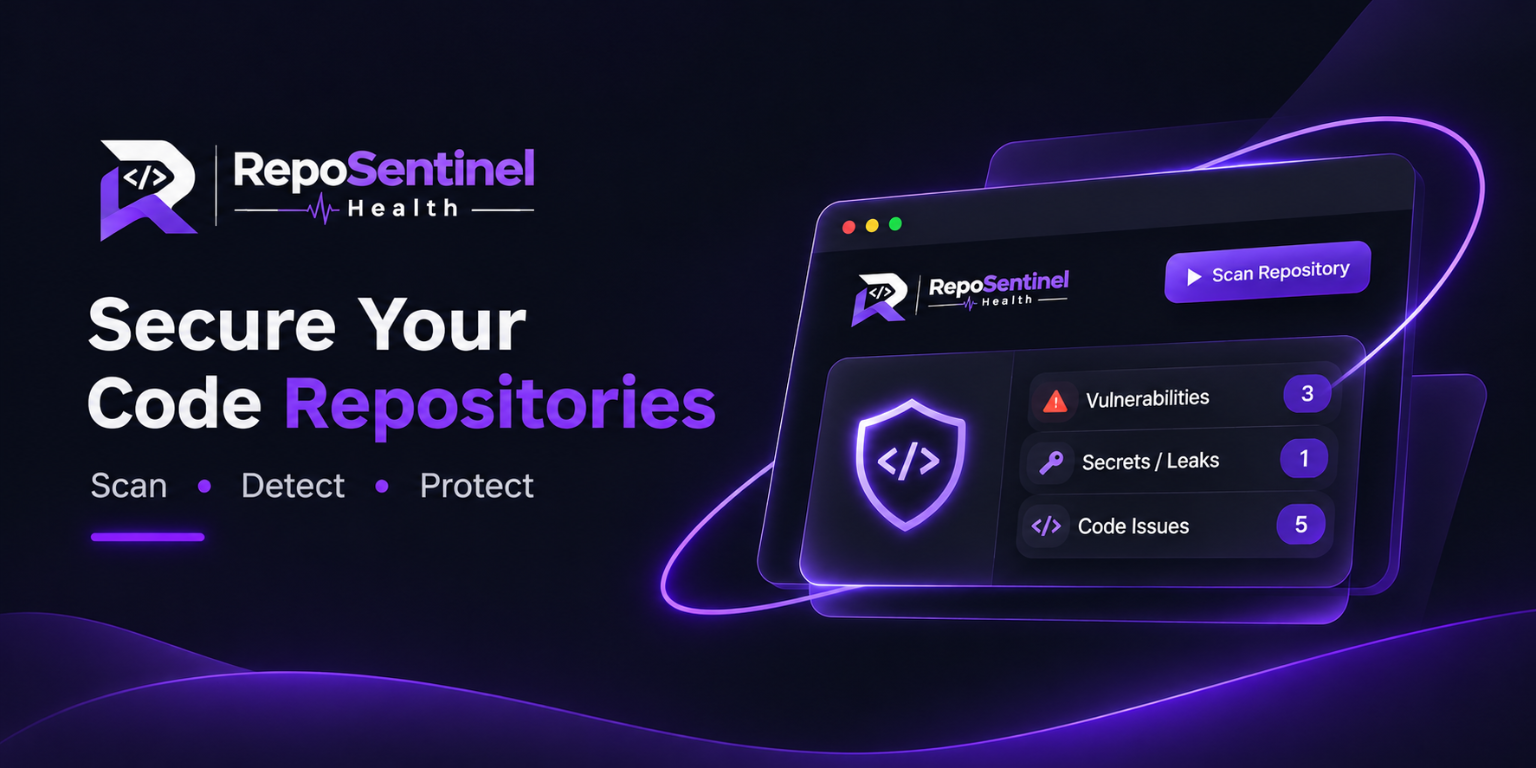
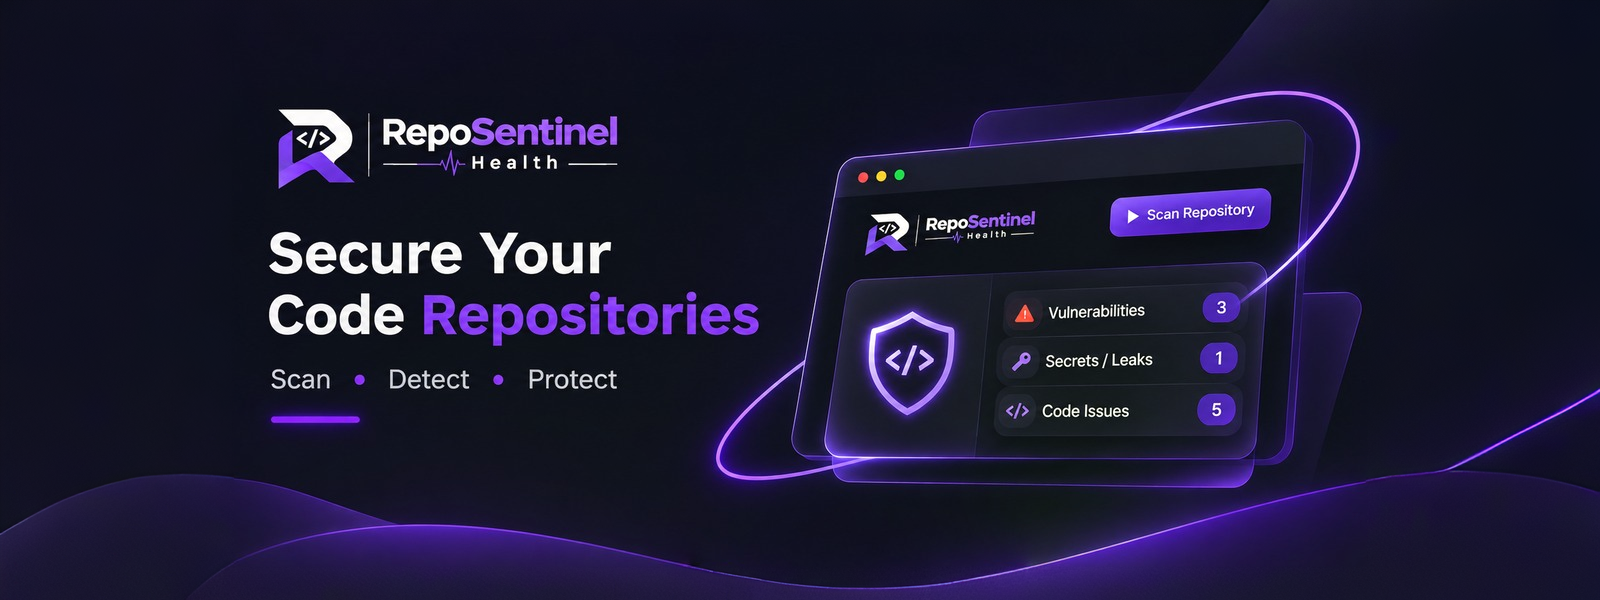
Refine hero artwork for light and dark themes

Changed region(s): [[0.0, 0.0, 1.0, 1.0], [0.0625, 0.18, 0.4062, 0.33], [0.0625, 0.6, 0.375, 0.72]]

diff --git a/frontend/src/App.jsx b/frontend/src/App.jsx
@@ -288,7 +288,6 @@ function App() {
       <main className="dashboard workspace-dashboard">
         {error && <div className="error-banner" role="alert"><div><strong>Backend connection issue</strong><p>{error}</p></div><button onClick={() => loadBackend()} className="retry-button" disabled={loading}>{loading ? "Connecting…" : "Retry connection"}</button></div>}
         {activeView === "overview" && <>
-          <section className="workspace-heading overview-heading"><div><p className="eyebrow">SECURITY OPERATIONS WORKSPACE</p><h1>Security Overview</h1><p>Monitor repository security, investigate findings, and prioritize remediation.</p></div><button className="primary-button" onClick={() => navigate("scan")}>New Repository Scan</button></section>
           <section className="hero-section" aria-label="RepoSentinel overview hero">
             <div className="hero-visual">
               <div className="hero-frame">
@@ -313,6 +312,7 @@ function App() {
               </ul>
             </div>
           </section>
+          <section className="workspace-heading overview-heading"><div><p className="eyebrow">SECURITY OPERATIONS WORKSPACE</p><h1>Security Overview</h1><p>Monitor repository security, investigate findings, and prioritize remediation.</p></div><button className="primary-button" onClick={() => navigate("scan")}>New Repository Scan</button></section>
           <section className="overview-meta"><div><span className="meta-label">CURRENT PROJECT</span><strong>{scanResult?.filename || "No repository selected"}</strong></div><div><span className="meta-label">LATEST SCAN</span><strong>{scanResult ? new Date(scanResult.created_at).toLocaleString() : "Awaiting first scan"}</strong></div><div><span className="meta-label">SCAN DURATION</span><strong>{scanResult ? `${scanResult.duration_ms ?? 0} ms` : "—"}</strong></div><div><span className="meta-label">SCAN ID</span><strong className="mono">{scanResult?.scan_id || "—"}</strong></div></section>
           <section className="section-heading"><div><h2>Risk overview</h2><p>Latest repository scan · findings are indicators for human review</p></div><span className="live-label">{scanResult ? "LATEST RESULT" : "NO SCAN YET"}</span></section>
           <section className="summary-grid overview-risk-grid"><article className="summary-card total"><span>Total findings</span><strong>{summary?.total_findings ?? "—"}</strong></article><article className="summary-card critical"><span>Critical</span><strong>{summary?.critical ?? "—"}</strong></article><article className="summary-card high"><span>High</span><strong>{summary?.high ?? "—"}</strong></article><article className="summary-card medium"><span>Medium</span><strong>{summary?.medium ?? "—"}</strong></article><article className="summary-card low"><span>Low</span><strong>{summary?.low ?? "—"}</strong></article><article className="summary-card info"><span>Files analyzed</span><strong>{summary?.files_analyzed ?? "—"}</strong></article></section>

diff --git a/frontend/src/App.css b/frontend/src/App.css
@@ -829,6 +829,27 @@ a {
   object-fit: contain;
 }
 
+.product-shell[data-theme="dark"] .hero-visual {
+  padding: 0;
+}
+
+.product-shell[data-theme="dark"] .hero-frame {
+  width: 100%;
+  max-width: none;
+  margin: 0;
+  border-radius: 0;
+  background: linear-gradient(90deg, rgba(6, 9, 17, 0.2) 0%, rgba(56, 38, 88, 0.16) 28%, rgba(92, 71, 150, 0.12) 52%, rgba(56, 38, 88, 0.16) 76%, rgba(6, 9, 17, 0.2) 100%);
+  box-shadow: none;
+}
+
+.product-shell[data-theme="dark"] .hero-frame img {
+  width: 100%;
+  max-width: none;
+  object-fit: cover;
+  transform: scale(1.04);
+  filter: saturate(1.2) contrast(1.08);
+}
+
 .hero-frame::before {
   content: "";
   position: absolute;
